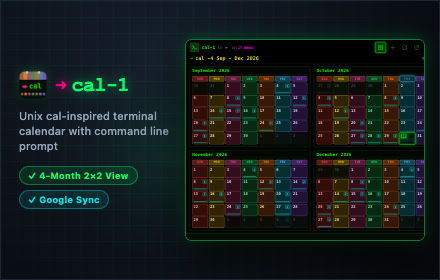
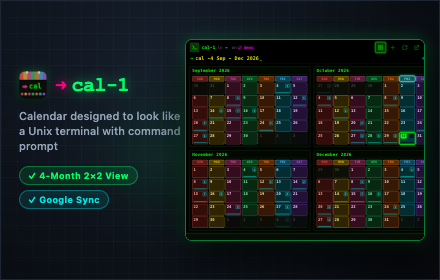
refactor(copy): clarify that cal-1 is a calendar designed to look like a Unix terminal with command prompt across docs, store assets, and manifest

Changed region(s): [[0.0295, 0.4, 0.4136, 0.4857], [0.8864, 0.4571, 0.9455, 0.5429], [0.8864, 0.2571, 0.9455, 0.3143]]

diff --git a/docs/index.html b/docs/index.html
@@ -4,8 +4,8 @@
   <meta charset="UTF-8" />
   <meta name="viewport" content="width=device-width, initial-scale=1.0" />
   <!-- Paste Google Search Console verification meta tag below this line if needed -->
-  <title>cal-1 — Unix Terminal Calendar for Chrome</title>
-  <meta name="description" content="cal-1 is a lightweight, Unix cal-inspired dropdown calendar Chrome extension with command line prompt, 4-month 2x2 overview, hover schedules, and Google Calendar sync." />
+  <title>cal-1 — Dropdown Calendar Designed Like a Unix Terminal</title>
+  <meta name="description" content="cal-1 is a lightweight dropdown calendar for Google Chrome designed to look like a Unix terminal with command prompt, 4-month 2x2 overview, hover schedules, and Google Calendar sync." />
   <style>
     :root {
       --bg: #080b0f;
@@ -111,7 +111,7 @@
 
     <h1>cal-1</h1>
     <p class="subtitle">
-      Unix <code>cal(1)</code>-inspired dropdown calendar for Google Chrome with command line prompt styling, 4-month 2×2 overview, hover schedule inspection, and Google Calendar &amp; Tasks synchronization.
+      Dropdown calendar for Google Chrome designed to look like a Unix terminal with command prompt, 4-month 2×2 overview, hover schedule inspection, and Google Calendar &amp; Tasks synchronization.
     </p>
 
     <div class="grid">

diff --git a/store-assets/promo-canvas.html b/store-assets/promo-canvas.html
@@ -281,7 +281,7 @@
       </div>
 
       <div class="small-tagline">
-        Unix cal-inspired terminal calendar with command line prompt
+        Calendar designed to look like a Unix terminal with command prompt
       </div>
 
       <div class="small-pills">
@@ -314,7 +314,7 @@
       </div>
 
       <div class="marquee-desc">
-        Unix cal-inspired dropdown calendar with command line prompt, 4-month overview, and seamless Google Calendar & Tasks sync.
+        Dropdown calendar designed to look like a Unix terminal with command prompt, 4-month overview, and seamless Google Calendar & Tasks sync.
       </div>
 
       <div class="marquee-pills">

diff --git a/scripts/generate-screenshots.js b/scripts/generate-screenshots.js
@@ -158,7 +158,7 @@ async function run() {
     console.log('\n[1/5] Setting up Scene 1: 4-Month 2x2 Overview...');
     await gen.eval(`
       (() => {
-        document.getElementById('badgeText').textContent = 'cal-1 • Unix Terminal Calendar';
+        document.getElementById('badgeText').textContent = 'cal-1 • Calendar designed like a Unix terminal';
         document.getElementById('sceneTitle').textContent = '4-Month 2×2 Grid View';
         document.getElementById('sceneSubtitle').textContent = 'Glance across 4 consecutive months with Spaceship prompt and directional scan transitions';
         

diff --git a/store-assets/frame.html b/store-assets/frame.html
@@ -230,7 +230,7 @@
   <div class="header-banner">
     <div class="badge-pill">
       <span class="badge-dot"></span>
-      <span id="badgeText">cal-1 • Unix Terminal Calendar</span>
+      <span id="badgeText">cal-1 • Calendar designed like a Unix terminal</span>
     </div>
     <h1 class="scene-title" id="sceneTitle">4-Month 2×2 Overview</h1>
     <p class="scene-subtitle" id="sceneSubtitle">Effortlessly glance at 4 consecutive months with command line prompt and directional scan transitions</p>

diff --git a/docs/privacy.html b/docs/privacy.html
@@ -58,7 +58,7 @@
     <h2>3. How Data Is Used</h2>
     <p>The accessed data is used solely to provide core calendar functionality:</p>
     <ul>
-      <li>Rendering the interactive 1-month and 4-month terminal calendar views.</li>
+      <li>Rendering the interactive 1-month and 4-month calendar views.</li>
       <li>Displaying scheduled events and tasks on hover popovers and daily indicators.</li>
       <li>Synchronizing event updates on your requested schedule.</li>
     </ul>

diff --git a/CHROMEWEBSTORE.md b/CHROMEWEBSTORE.md
@@ -10,14 +10,14 @@
 `cal-1`
 
 **Short Description** [REQUIRED] (Max 132 characters)  
-`Unix cal-inspired terminal calendar with command line prompt, 4-month 2x2 view, hover schedules, and Google Calendar sync.`
+`Dropdown calendar designed to look like a Unix terminal with command prompt, 4-month view, and Google Calendar sync.`
 
 **Detailed Description** [REQUIRED]  
 ```text
-cal-1 brings the speed, minimalism, and aesthetic of the classic Unix cal utility into your Chrome browser, paired with a retro command line prompt and seamless Google Calendar sync.
+cal-1 is a dropdown calendar designed to look like a Unix terminal with a command prompt, paired with a 4-month overview and seamless Google Calendar sync.
 
 KEY FEATURES
-• Command Line Prompt Header: Clean terminal-style prompt indicating the active calendar feed and quick switcher.
+• Command Prompt Header: Clean terminal-style prompt indicating the active calendar feed and quick switcher.
 • 4-Month 2×2 Overview: See four consecutive months side by side with uniform grid cards, Thai daily color coding, and directional scan transitions.
 • 1-Month Focused View: Click any month card or use arrow navigation to zoom into a detailed monthly calendar.
 • Full-Width Hover Popover: Hover over any day in 4-month view to immediately inspect scheduled meetings, tasks, and holiday banners.
@@ -41,7 +41,7 @@ cal-1 communicates directly and exclusively with official Google Calendar APIs. 
 `Productivity` (Alternative: `Developer Tools`)
 
 **Single Purpose** [REQUIRED]  
-`Provides a lightweight, terminal-inspired calendar popup with multi-month viewing, quick scheduling, and Google Calendar synchronization.`
+`Provides a lightweight calendar popup designed to look like a Unix terminal with multi-month viewing, quick scheduling, and Google Calendar synchronization.`
 
 **Primary Language** [REQUIRED]  
 `English`

diff --git a/README.md b/README.md
@@ -1,12 +1,12 @@
-# cal-1 (v1) - Unix Command-Line Google Calendar for Chrome
+# cal-1 - Dropdown Calendar Designed Like a Unix Terminal
 
-**cal-1** is a terminal-inspired dropdown calendar for Google Chrome inspired by the Unix [cal(1)](https://en.wikipedia.org/wiki/Cal_(command)) manual page and styled with [Spaceship Prompt](https://github.com/spaceship-prompt/spaceship-prompt) aesthetics, Homebrew iTerm2 ANSI colors, and the Hack monospace font.
+**cal-1** is a dropdown calendar for Google Chrome designed to look like a Unix terminal with a command prompt, featuring a 4-month overview, hover schedule inspection, and Google Calendar sync.
 
 ---
 
 ## Interactive Command Line
 
-Type commands directly at the Spaceship prompt (`➜ cal ...`) to jump to any month or year, or switch calendars:
+Type commands directly at the command line prompt (`➜ cal ...`) to jump to any month or year, or switch calendars:
 
 * `cal 12 2026` or `cal dec 2026` &rarr; Jump to December 2026
 * `cal 2027` &rarr; Jump to January 2027
@@ -24,7 +24,7 @@ Type commands directly at the Spaceship prompt (`➜ cal ...`) to jump to any mo
   * `ESC`: Reload and reset to today
   * `Backspace`: Edit the command prompt directly
   * `/` or `:`: Focus and select the command line prompt
-* **Spaceship Calendar Segment**: Click `on ⎇ <calendar>` in the header to cycle through available calendar feeds or view active calendar details!
+* **Command Prompt Calendar Segment**: Click `on ⎇ <calendar>` in the header to cycle through available calendar feeds or view active calendar details!
 
 ---
 

diff --git a/PRIVACY.md b/PRIVACY.md
@@ -24,7 +24,7 @@
 ## 3. How Data Is Used
 
 The accessed data is used solely to provide core calendar functionality:
-- Rendering the interactive 1-month and 4-month terminal calendar views.
+- Rendering the interactive 1-month and 4-month calendar views.
 - Displaying scheduled events and tasks on hover popovers and daily indicators.
 - Synchronizing event updates on your requested schedule.
 
